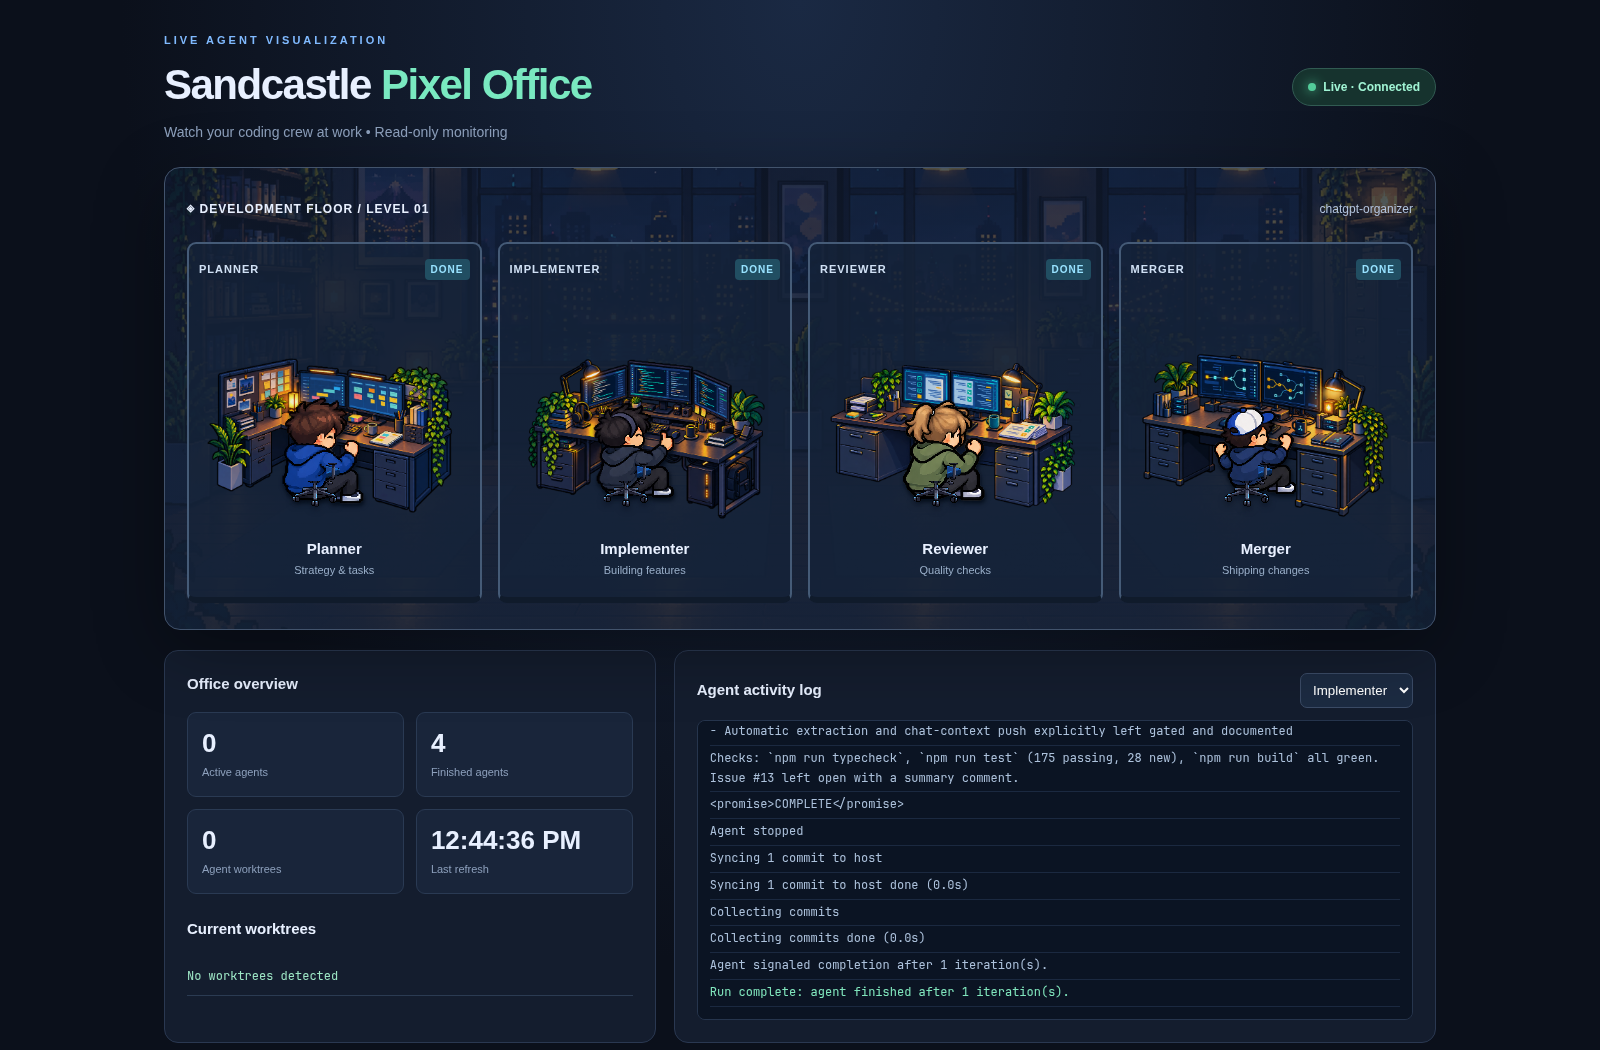
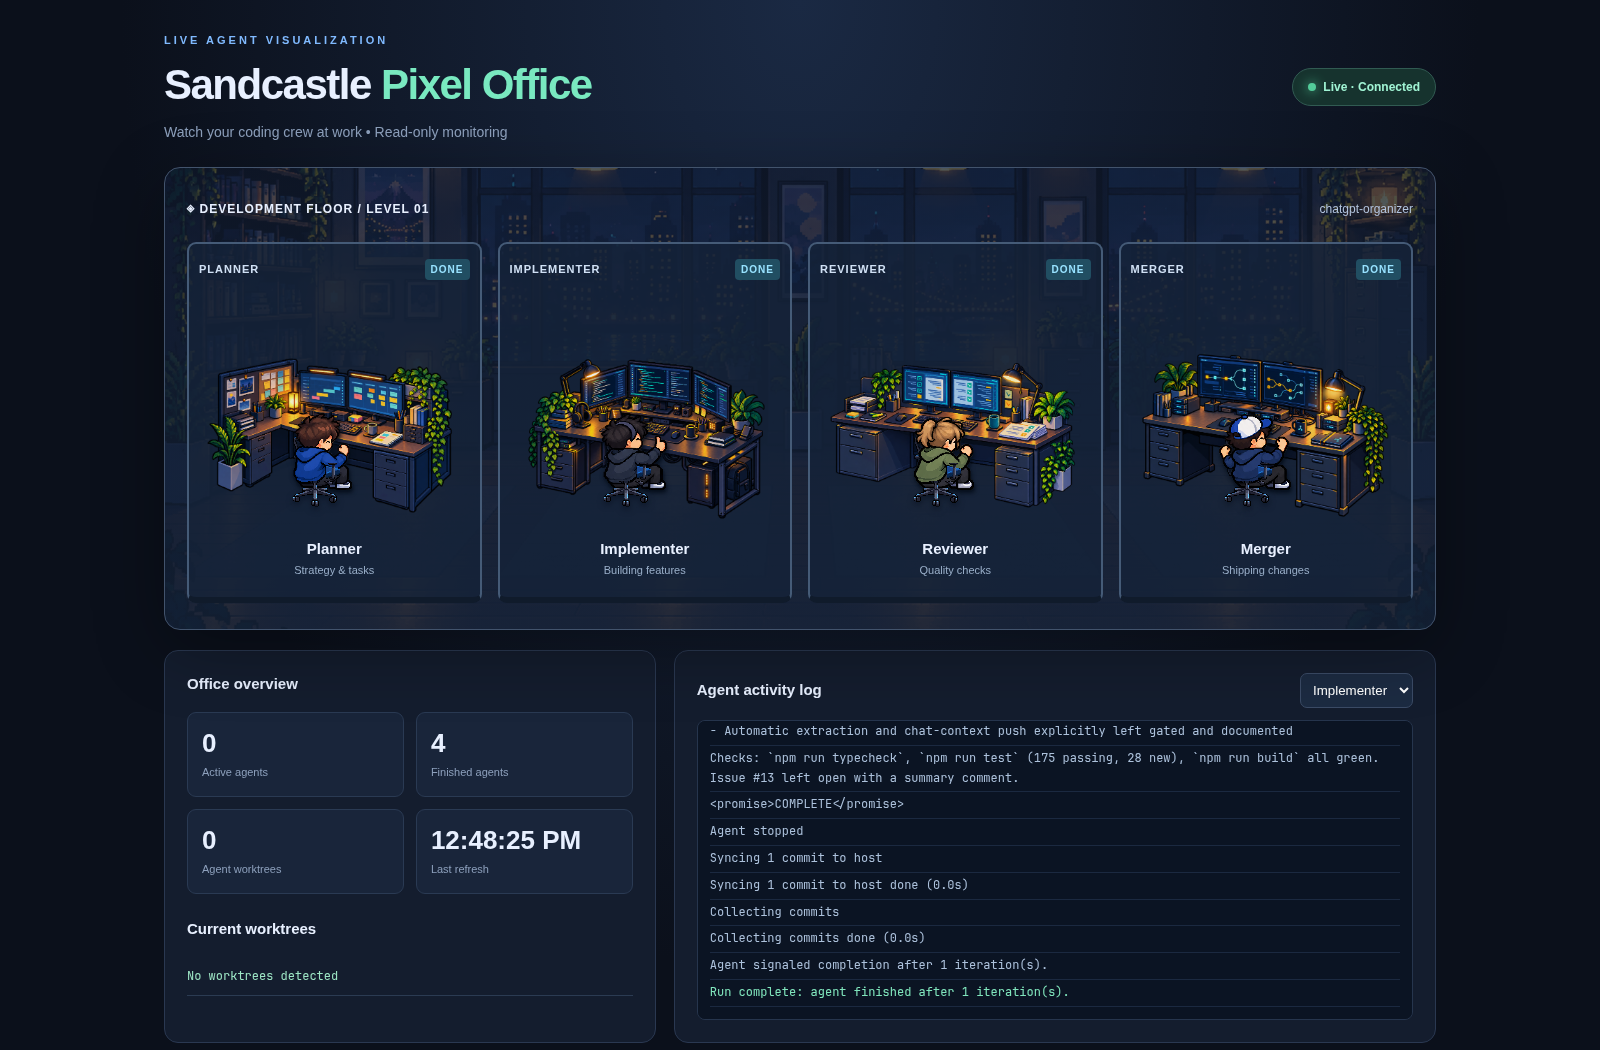
Normalize agent animation frames to prevent scaling

diff --git a/index.html b/index.html
@@ -17,8 +17,8 @@
 .pixel-chair{position:absolute;width:98px;height:114px;object-fit:contain;bottom:3px;left:43%;transform:translateX(-50%);image-rendering:pixelated;pointer-events:none;z-index:2;filter:drop-shadow(0 3px 3px #050e1b99)}
 .pixel-chair-front{position:absolute;width:98px;height:114px;object-fit:contain;bottom:3px;left:43%;transform:translateX(-50%);pointer-events:none;z-index:4;image-rendering:pixelated}
 .pixel-agent{position:absolute;width:86px;height:118px;object-fit:contain;bottom:14px;left:46%;transform:translateX(-50%);image-rendering:pixelated;pointer-events:none;z-index:3;filter:drop-shadow(1px 3px 2px #050e1b)}
-.station.working .pixel-agent{animation:pixel-bob .46s steps(2,end) infinite alternate}
-.station.done .pixel-agent{animation:pixel-celebrate 1.6s ease-in-out infinite alternate}
+.station.working .pixel-agent{animation:none}
+.station.done .pixel-agent{animation:none}
 @keyframes pixel-bob{to{transform:translate(-50%,2px)}}
 @keyframes pixel-celebrate{to{transform:translate(-50%,-3px)}}
 @media(max-width:900px){.scene{height:240px}.pixel-workstation{height:195px}.pixel-agent{height:118px}.pixel-chair,.pixel-chair-front{height:114px}}
@@ -32,8 +32,8 @@
 <script>
 const roles=[["planner","Planner","Strategy & tasks","#d3a3ff","#f2bca4","#49335c"],["implementer","Implementer","Building features","#6edcce","#f2bf9e","#31344f"],["reviewer","Reviewer","Quality checks","#ffc56e","#dca789","#68452f"],["merger","Merger","Shipping changes","#89b6ff","#efc2a5","#303a5b"]];
 const stations=document.querySelector("#stations");const escapeHtml=s=>String(s).replace(/[&<>"']/g,c=>({"&":"&amp;","<":"&lt;",">":"&gt;",'"':"&quot;","'":"&#39;"}[c]));
-stations.innerHTML=roles.map(([key,name,desc,shirt,skin,hair])=>`<article class="station" id="station-${key}" style="--shirt:${shirt};--skin:${skin};--hair:${hair}"><div class="station-head"><span>${name}</span><span class="status">WAITING</span></div><div class="scene"><img class="pixel-workstation" alt="" src="assets/pixel-office/workstations/${key}.png"><img class="pixel-chair" alt="" src="assets/pixel-office/workstations/chair.png"><img class="pixel-agent" alt="${name} pixel-art agent" src="assets/pixel-office/characters/${key}/idle.png"><img class="pixel-chair-front" alt="" src="assets/pixel-office/workstations/chair-foreground.png"></div><div class="station-name">${name}</div><div class="station-sub">${desc}</div></article>`).join("");
+stations.innerHTML=roles.map(([key,name,desc,shirt,skin,hair])=>`<article class="station" id="station-${key}" style="--shirt:${shirt};--skin:${skin};--hair:${hair}"><div class="station-head"><span>${name}</span><span class="status">WAITING</span></div><div class="scene"><img class="pixel-workstation" alt="" src="assets/pixel-office/workstations/${key}.png"><img class="pixel-chair" alt="" src="assets/pixel-office/workstations/chair.png"><img class="pixel-agent" alt="${name} pixel-art agent" src="assets/pixel-office/characters/${key}/aligned/idle.png"><img class="pixel-chair-front" alt="" src="assets/pixel-office/workstations/chair-foreground.png"></div><div class="station-name">${name}</div><div class="station-sub">${desc}</div></article>`).join("");
 async function update(){try{const response=await fetch("/api/status",{cache:"no-store"});if(!response.ok)throw Error("HTTP "+response.status);const data=await response.json();document.querySelector("#connection").textContent="Live · Connected";document.querySelector("#project").textContent=data.project;let active=0,finished=0;for(const a of data.agents){const el=document.getElementById("station-"+a.role);el.className="station "+a.status;el.querySelector(".status").textContent=a.status.toUpperCase();const sprite=el.querySelector(".pixel-agent");const frames={working:["working-1","working-2","working-3","working-4"],done:["done-1","done-2"],waiting:["waiting-1","waiting-2"],idle:["idle"],error:["error-1","error-2"]};const state=frames[a.status]?a.status:"idle";sprite.dataset.animation=state; if(a.status==="working")active++;if(a.status==="done")finished++}document.querySelector("#active").textContent=active;document.querySelector("#finished").textContent=finished;document.querySelector("#branches").textContent=data.branches.length;document.querySelector("#updates").textContent=new Date().toLocaleTimeString();document.querySelector("#branch-list").innerHTML=data.branches.length?data.branches.map(b=>`<div class="branch">⌁ ${escapeHtml(b)}</div>`).join(""):"No worktrees detected";const selected=document.querySelector("#agent-select").value;const agent=data.agents.find(a=>a.role===selected);const feed=document.querySelector("#feed");const html=agent.events.length?agent.events.map(s=>`<div class="line">${escapeHtml(s)}</div>`).join(""):'<div class="empty">No activity recorded yet for this agent.</div>';if(feed.innerHTML!==html){const nearBottom=feed.scrollTop+feed.clientHeight>=feed.scrollHeight-50;feed.innerHTML=html;if(nearBottom)feed.scrollTop=feed.scrollHeight}}catch(e){document.querySelector("#connection").textContent="Disconnected · Retrying";console.error(e)}}
-let spriteTick=0;function animateSprites(){for(const [key] of roles){const sprite=document.querySelector(`#station-${key} .pixel-agent`);if(!sprite)continue;const state=sprite.dataset.animation||"idle";const frames={working:["working-1","working-2","working-3","working-4"],done:["done-1","done-2"],waiting:["waiting-1","waiting-2"],idle:["idle"],error:["error-1","error-2"]}[state]||["idle"];const frame=matchMedia("(prefers-reduced-motion: reduce)").matches?frames[0]:frames[spriteTick%frames.length];const source=`assets/pixel-office/characters/${key}/${frame}.png`;if(sprite.getAttribute("src")!==source)sprite.setAttribute("src",source)}spriteTick++}
+let spriteTick=0;function animateSprites(){for(const [key] of roles){const sprite=document.querySelector(`#station-${key} .pixel-agent`);if(!sprite)continue;const state=sprite.dataset.animation||"idle";const frames={working:["working-1","working-2","working-3","working-4"],done:["done-1","done-2"],waiting:["waiting-1","waiting-2"],idle:["idle"],error:["error-1","error-2"]}[state]||["idle"];const frame=matchMedia("(prefers-reduced-motion: reduce)").matches?frames[0]:frames[spriteTick%frames.length];const source=`assets/pixel-office/characters/${key}/aligned/${frame}.png`;if(sprite.getAttribute("src")!==source)sprite.setAttribute("src",source)}spriteTick++}
 document.querySelector("#agent-select").addEventListener("change",update);update();animateSprites();setInterval(update,3000);setInterval(animateSprites,300);
 </script></body></html>
